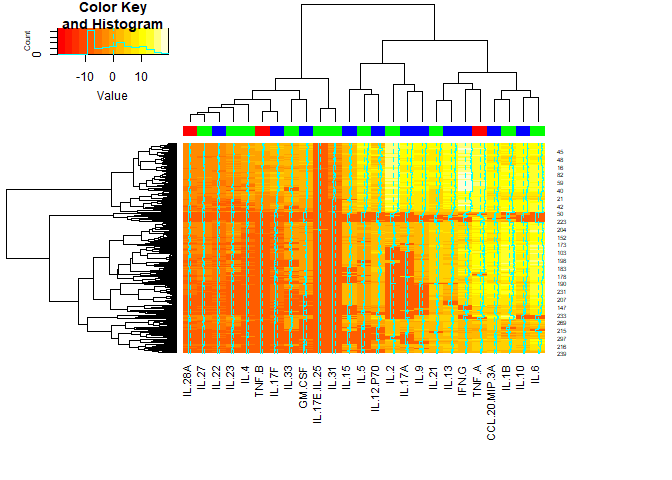
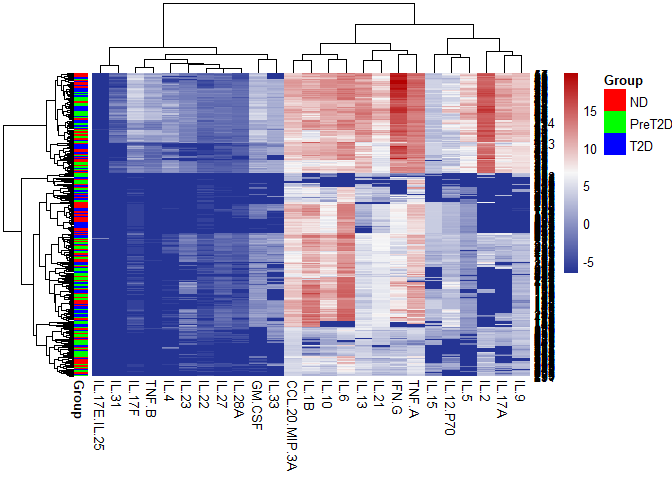
'cyt_heatmap' now uses pheatmap for plotting, and provides a proper legend along with additional scaling options.

diff --git a/README.md b/README.md
@@ -70,7 +70,7 @@ library(tidyr) # For reshaping data (e.g., pivot_longer, pivot_wider).
 library(ggplot2) # For creating all the ggplot-based visualizations.
 library(gridExtra) # For arranging multiple plots on a single page.
 library(ggrepel) # For improved label placement in plots (e.g., volcano plots).
-library(gplots) # For heatmap.2, which is used to generate heatmaps.
+library(pheatmap) # For heatmap.2, which is used to generate heatmaps.
 library(plot3D) # For creating 3D scatter plots in PCA and sPLS-DA analyses.
 library(reshape2) # For data transformation (e.g., melt) in cross-validation plots.
 
@@ -342,7 +342,7 @@ cyt_volc(
 cyt_heatmap(
   data = data_df,
   scale = "log2", # Optional scaling
-  annotation_col_name = "Group",
+  annotation_col = "Group",
   title = NULL
 )
 ```

diff --git a/NEWS.md b/NEWS.md
@@ -10,6 +10,8 @@
 
 * Added new "ExampleData5" dataset which is the same as "ExampleData1" but with a batch column for demonstration of the 'batch_col' argument in 'cyt_mint_splsda'.
 
+* 'cyt_heatmap' now uses pheatmap for plotting, and provides a proper legend along with additional scaling options.
+
 ## Minor Changes and Bug Fixes
 
 * Updated the vignette and README files to include examples of the new 'cyt_mint_splsda' function.
